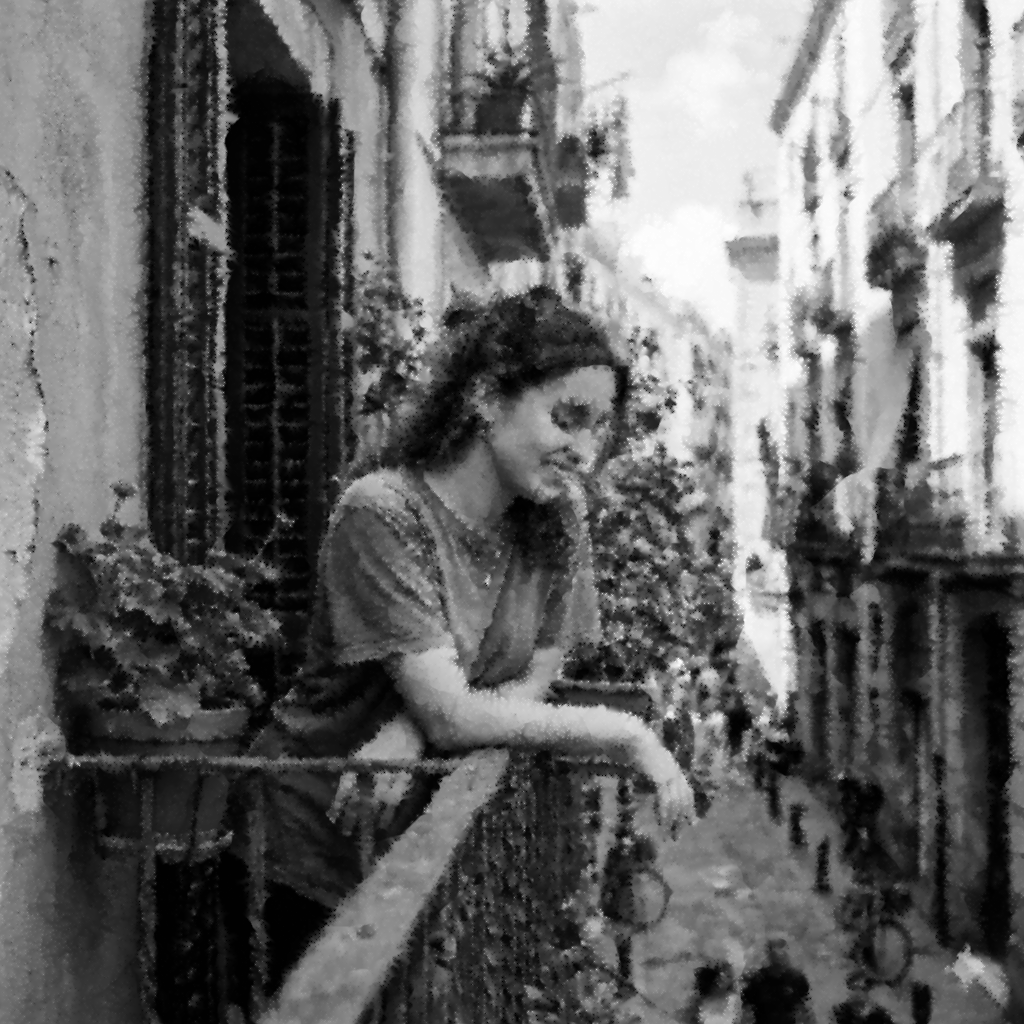
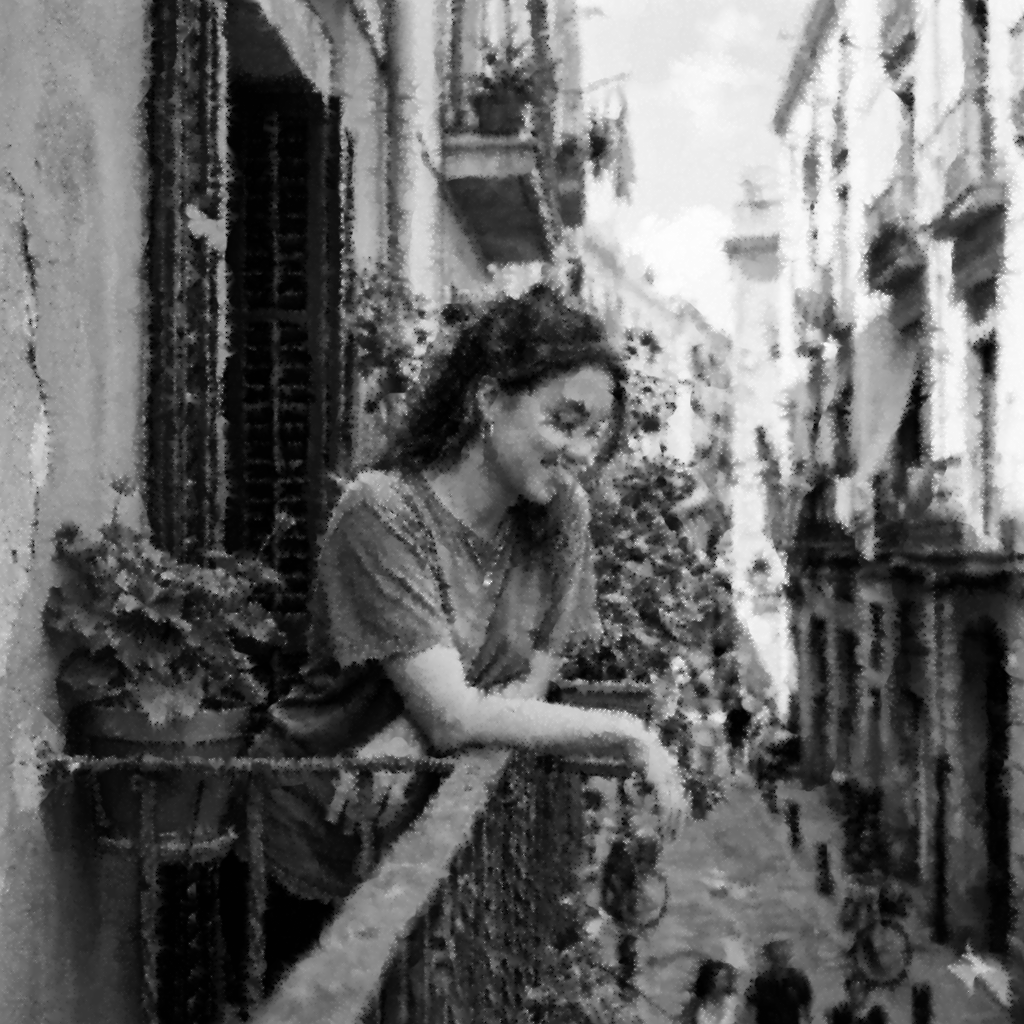
편차필터 PSNR : 7.31 SSIM : 0.0624 후보1필터 PSNR : 23.70 SSIM : 0.7410

diff --git a/Filtering_Methods.py b/Filtering_Methods.py
@@ -76,7 +76,109 @@ def median_filter(A):
 
     return img_filt.astype(np.uint8)
 
+def custom_corner_filter(A):
+    print("\n[알림] 제안 필터 1: 4방향 코너 그룹 분산 최소화 중간값 필터를 시작합니다...")
+    m, n = A.shape
+    img_filt = A.copy()
+    route_count = 0
+    
+    while True:
+        route_count += 1
+        noise_mask = (img_filt == 0) | (img_filt == 255)
+        
+        if not np.any(noise_mask):
+            print(f"[Filter 1] 모든 노이즈 제거 완료. (총 가동된 루트 수: {route_count - 1})")
+            break
+            
+        print(f"[Filter 1] 진행 중: {route_count}번째 탐색 시작", flush=True)
+        P = np.pad(img_filt, 1, mode='edge')
+        windows = np.lib.stride_tricks.sliding_window_view(P, (3, 3)).reshape(m, n, 9)
+        
+        # 4개 그룹 생성 (M, N, 4, 3)
+        groups = np.zeros((m, n, 4, 3), dtype=np.uint8)
+        groups[:, :, 0, :] = windows[:, :, [0, 1, 3]] # 좌상단 {1, 2, 4}
+        groups[:, :, 1, :] = windows[:, :, [1, 2, 5]] # 우상단 {2, 3, 6}
+        groups[:, :, 2, :] = windows[:, :, [3, 6, 7]] # 좌하단 {4, 7, 8}
+        groups[:, :, 3, :] = windows[:, :, [5, 7, 8]] # 우하단 {6, 8, 9}
+        
+        sorted_groups = np.sort(groups, axis=3)
+        A_vals = sorted_groups[:, :, :, 0].astype(np.int32)
+        C_vals = sorted_groups[:, :, :, 2].astype(np.int32)
+        B_vals = sorted_groups[:, :, :, 1]
+        
+        # 편차 계산 (|A - C|와 완전히 동일함)
+        diffs = C_vals - A_vals
+        best_group_idx = np.argmin(diffs, axis=2)
+        
+        idx_m, idx_n = np.indices((m, n))
+        best_medians = B_vals[idx_m, idx_n, best_group_idx]
+        
+        prev_img = img_filt.copy()
+        img_filt[noise_mask] = best_medians[noise_mask]
+        
+        if np.array_equal(prev_img, img_filt) or route_count >= 30:
+            print(f"[Filter 1] 알림: 더 이상 변화가 없거나 최대 루프에 도달하여 {route_count}루트에서 종료합니다.")
+            break
+            
+    return img_filt.astype(np.uint8)
 
+
+def custom_direction_filter(A):
+    print("\n[알림] 제안 필터 2: 노이즈 최소 방향 탐색 중간값 필터를 시작합니다...")
+    m, n = A.shape
+    img_filt = A.copy()
+    route_count = 0
+    
+    while True:
+        route_count += 1
+        noise_mask = (img_filt == 0) | (img_filt == 255)
+        
+        if not np.any(noise_mask):
+            print(f"[Filter 2] 모든 노이즈 제거 완료. (총 가동된 루트 수: {route_count - 1})")
+            break
+            
+        print(f"[Filter 2] 진행 중: {route_count}번째 탐색 시작", flush=True)
+        P = np.pad(img_filt, 1, mode='edge')
+        windows = np.lib.stride_tricks.sliding_window_view(P, (3, 3)).reshape(m, n, 9)
+        
+        # 4방향 그룹 생성 (M, N, 4, 5)
+        groups = np.zeros((m, n, 4, 5), dtype=np.uint8)
+        groups[:, :, 0, :] = windows[:, :, [0, 1, 2, 3, 5]] # 상 {1, 2, 3, 4, 6}
+        groups[:, :, 1, :] = windows[:, :, [1, 2, 5, 7, 8]] # 우 {2, 3, 6, 8, 9}
+        groups[:, :, 2, :] = windows[:, :, [3, 5, 6, 7, 8]] # 하 {4, 6, 7, 8, 9}
+        groups[:, :, 3, :] = windows[:, :, [0, 1, 3, 6, 7]] # 좌 {1, 2, 4, 7, 8}
+        
+        # 방향별 노이즈 개수 계산
+        is_noise = (groups == 0) | (groups == 255)
+        noise_counts = np.sum(is_noise, axis=3)
+        
+        # 노이즈가 가장 적은 방향 선택
+        best_dir_idx = np.argmin(noise_counts, axis=2)
+        
+        idx_m, idx_n = np.indices((m, n))
+        best_groups = groups[idx_m, idx_n, best_dir_idx]
+        
+        # 선택된 그룹에서 노이즈 제외
+        best_groups_float = best_groups.astype(np.float32)
+        best_noise_mask = (best_groups_float == 0) | (best_groups_float == 255)
+        best_groups_float[best_noise_mask] = np.nan
+        
+        # 안전한 평균값 도출
+        with np.errstate(all='ignore'):
+            medians = np.nanmedian(best_groups_float, axis=2)
+            
+        # 모든 5픽셀이 노이즈가 아닌 픽셀만 업데이트
+        valid_medians_mask = ~np.isnan(medians)
+        update_mask = noise_mask & valid_medians_mask
+        
+        prev_img = img_filt.copy()
+        img_filt[update_mask] = medians[update_mask].astype(np.uint8)
+        
+        if np.array_equal(prev_img, img_filt) or route_count >= 30:
+            print(f"[Filter 2] 알림: 더 이상 변화가 없거나 최대 루프에 도달하여 {route_count}루트에서 종료합니다.")
+            break
+            
+    return img_filt.astype(np.uint8)
 
 
 # 필터링 유형을 결정하는 함수입니다.

diff --git a/test_headless.py b/test_headless.py
@@ -1,42 +1,39 @@
 import cv2
 import numpy as np
-import time
-from Noise_Filters import myImNoise
-from Filtering_Methods import myImFilter
-from tester import calculate_metrics
+from Utils import *
+from Noise_Filters import *
+from Filtering_Methods import *
 
-def headless_test():
-    # 1. 원본 이미지 읽기 및 리사이즈 (테스트 속도 향상)
-    image_full = cv2.imread("resources/testimg.png", cv2.IMREAD_GRAYSCALE)
-    if image_full is None:
-        print("Failed to read testimg.png")
+def main():
+    print("Headless Test Starting...")
+    image = cv2.imread("resources/testimg.png")
+    if image is None:
+        print("Error: No image")
         return
-    image = cv2.resize(image_full, (256, 256))
+        
+    imgGray = cv2.cvtColor(image, cv2.COLOR_BGR2GRAY)
+    SPnoise_img = myImNoise(imgGray, param="saltandpepper", noise_percent=90)
     
-    print("Image loaded:", image.shape)
+    print("1. Running Base Filter...")
+    Base_Filtered = myImFilter(SPnoise_img, param="mean")
     
-    # 2. 노이즈 추가 (50%)
-    print("Applying 50% Salt and Pepper noise...")
-    start_time = time.time()
-    noise_img = myImNoise(image, param="saltandpepper", noise_percent=50)
-    print(f"Noise added in {time.time() - start_time:.2f} seconds")
-    
-    # 측정
-    psnr_noisy, ssim_noisy = calculate_metrics(image, noise_img)
-    print(f"Noisy PSNR: {psnr_noisy:.2f}, SSIM: {ssim_noisy:.4f}")
-    
-    # 3. 필터 적용
-    print("\nApplying Progressive Median Filter...")
-    start_time = time.time()
-    filtered_img = myImFilter(noise_img, param="mean")
-    print(f"Filter finished in {time.time() - start_time:.2f} seconds")
-    
-    # 결과 측정
-    psnr_filtered, ssim_filtered = calculate_metrics(image, filtered_img)
-    print(f"\nFiltered PSNR: {psnr_filtered:.2f}, SSIM: {ssim_filtered:.4f}")
-    
-    cv2.imwrite("Results/headless_filtered.png", filtered_img)
-    print("Done. Image saved to Results/headless_filtered.png")
+    print("2. Running Filter 1 (Corner Group)...")
+    try:
+        Filter1_Result = custom_corner_filter(SPnoise_img)
+        print("Filter 1 succeeded!")
+    except Exception as e:
+        print(f"Filter 1 failed: {e}")
+        return
+        
+    print("3. Running Filter 2 (Min Noise Dir)...")
+    try:
+        Filter2_Result = custom_direction_filter(SPnoise_img)
+        print("Filter 2 succeeded!")
+    except Exception as e:
+        print(f"Filter 2 failed: {e}")
+        return
+
+    print("Headless test completed successfully.")
 
 if __name__ == "__main__":
-    headless_test()
+    main()

diff --git a/tester.py b/tester.py
@@ -32,30 +32,39 @@ def calculate_metrics(img1, img2):
     
     return psnr_score, ssim_score
 
-def run_test(source_img, noise_img, filtered_img):
+def run_test(source_img, noise_img, f1_filtered, f2_filtered):
     print("="*50)
-    print("   원본 이미지 vs 노이즈 제거 이미지 차이 분석   ")
+    print("   원본 이미지 vs 필터별 복원 차이 분석   ")
     print("="*50)
     
     print("[1] 전달받은 이미지 데이터 화면 출력...")
     show_resized("1. Original Image", source_img)
     show_resized("2. Noisy Image", noise_img)
-    show_resized("3. Filtered Image", filtered_img)
+    # show_resized("3. Base Filter Result", base_filtered)
+    show_resized("3. Filter 1 (Corner Group) Result", f1_filtered)
+    show_resized("4. Filter 2 (Min Noise Dir) Result", f2_filtered)
     
     # 노이즈가 추가된 직후의 상태 측정
     psnr_noisy, ssim_noisy = calculate_metrics(source_img, noise_img)
     print(f"   -> [노이즈 상태] PSNR: {psnr_noisy:.2f} / SSIM: {ssim_noisy:.4f}")
     
-    # 필터링 후 결과 차이 분석
-    psnr_filtered, ssim_filtered = calculate_metrics(source_img, filtered_img)
-    
     print("\n" + "="*50)
     print("               최종 복원 성능 평가               ")
     print("="*50)
-    print(f"■ PSNR 점수 : {psnr_filtered:.2f} dB (높을수록 좋음, 노이즈 대비 {psnr_filtered - psnr_noisy:+.2f}dB 향상)")
-    print(f"■ SSIM 점수 : {ssim_filtered:.4f} (1.0에 가까울수록 원본과 동일, 노이즈 대비 {ssim_filtered - ssim_noisy:+.4f} 향상)")
-    print("==================================================")
     
+    filters_data = [
+        # ("Base Filter", base_filtered),
+        ("Filter 1 (Corner Group)", f1_filtered),
+        ("Filter 2 (Min Noise Dir)", f2_filtered)
+    ]
+    
+    for name, img in filters_data:
+        psnr_score, ssim_score = calculate_metrics(source_img, img)
+        print(f"\n[{name}]")
+        print(f"■ PSNR 점수 : {psnr_score:.2f} dB (노이즈 대비 {psnr_score - psnr_noisy:+.2f}dB 향상)")
+        print(f"■ SSIM 점수 : {ssim_score:.4f} (노이즈 대비 {ssim_score - ssim_noisy:+.4f} 향상)")
+        
+    print("\n==================================================")
     print("\n테스트가 완료되었습니다. 이미지 창에서 [아무 키]나 누르면 창이 닫힙니다.")
     cv2.waitKey(0)
     cv2.destroyAllWindows()

diff --git a/Main_Run.py b/Main_Run.py
@@ -38,20 +38,37 @@ def main():
     cv2.imwrite('Results/Salt_And_Pepper_Noise_Image.png', SPnoise_img)
 
     # =======================================#
-    #   점잡음 이미지에 평균 필터 적용       #
+    #   점잡음 이미지에 기존 필터 적용       #
     # =======================================#
-    Mean_SP = myImFilter(SPnoise_img, param="mean")
-    cv2.imshow('Mean filtered SP Image ', Mean_SP)
-    cv2.waitKey(0)
-    cv2.imwrite('Results/Mean_filtered_SP_Image.png', Mean_SP)
+    # Base_Filtered = myImFilter(SPnoise_img, param="mean")
+    # cv2.imshow('Base filtered SP Image ', Base_Filtered)
+    # cv2.waitKey(0)
+    # cv2.imwrite('Results/Base_Filtered_Image.png', Base_Filtered)
 
     # =======================================#
-    #  (변경됨) 메인 함수의 처리 결과를 tester로 전달 #
+    #   제안 필터 1: 코너 그룹 분산 최소화 중간값 필터
     # =======================================#
-    print("\n[알림] 기존 필터 이미지 출력이 완료되었습니다. 자동으로 테스터(tester.py) 벤치마크를 시작합니다...")
+    Filter1_Result = custom_corner_filter(SPnoise_img)
+    cv2.imshow('Filter 1 (Corner Group) Result', Filter1_Result)
+    cv2.waitKey(0)
+    cv2.imwrite('Results/Filter1_Result.png', Filter1_Result)
+
+    # =======================================#
+    #   제안 필터 2: 노이즈 최소 방향 탐색 중간값 필터
+    # =======================================#
+    Filter2_Result = custom_direction_filter(SPnoise_img)
+    cv2.imshow('Filter 2 (Min Noise Dir) Result', Filter2_Result)
+    cv2.waitKey(0)
+    cv2.imwrite('Results/Filter2_Result.png', Filter2_Result)
+
+    # =======================================#
+    #  메인 함수의 처리 결과를 tester로 전달 #
+    # =======================================#
+    print("\n[알림] 모든 필터 이미지 처리가 완료되었습니다. 자동으로 테스터(tester.py) 벤치마크를 시작합니다...")
     import tester
-    cv2.destroyAllWindows() # 기존에 열려있던 창 치우기 (선택사항)
-    tester.run_test(imgGray, SPnoise_img, Mean_SP)
+    cv2.destroyAllWindows()
+    # 기존 Base 필터를 제외하고 새로 제안한 2가지 테스트만 진행
+    tester.run_test(imgGray, SPnoise_img, Filter1_Result, Filter2_Result)
 
 if __name__ == "__main__":
     main()
